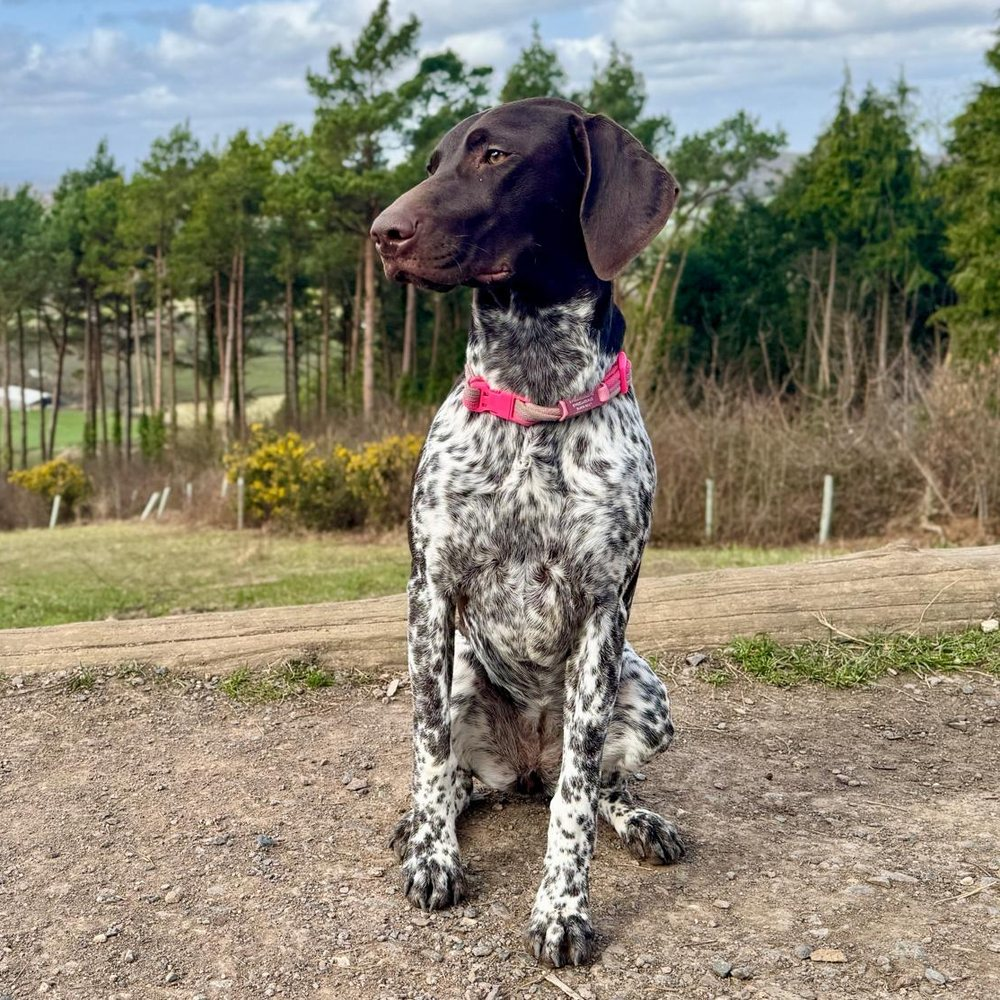
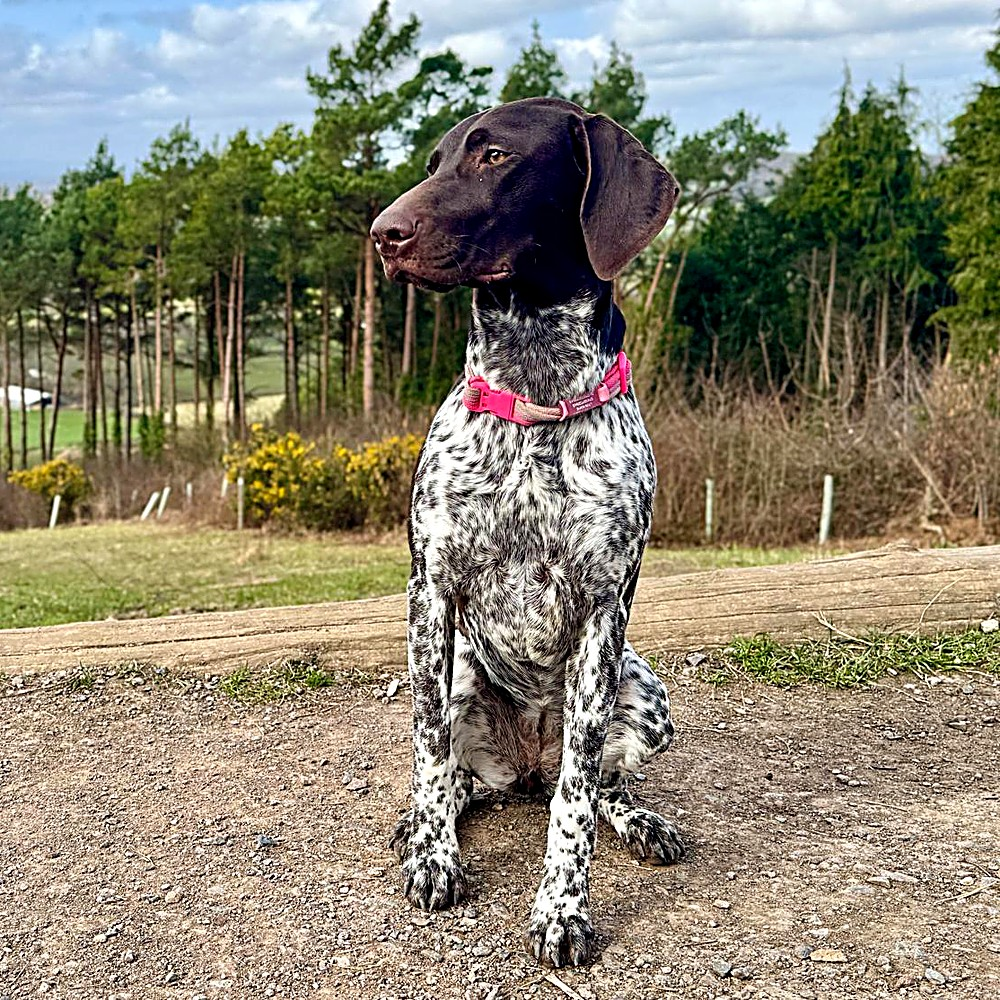
Gallery: Teddy + Khaleesi, clearer community photos, square tiles fix

diff --git a/index.html b/index.html
@@ -29,7 +29,7 @@
 <link rel="icon" href="/assets/img/favicon.png" type="image/png" sizes="512x512">
 <link rel="apple-touch-icon" href="/assets/img/apple-touch-icon.png">
 <link rel="preload" as="image" href="/assets/img/photos/hero.jpg?v=95f3ed8e" fetchpriority="high">
-<link rel="stylesheet" href="/assets/css/site.css?v=ec15ec20">
+<link rel="stylesheet" href="/assets/css/site.css?v=2c4a648b">
 <script type="application/ld+json">{"@context":"https://schema.org","@graph":[{"@type":"Organization","@id":"https://dalmatiannation.co.uk/#organization","name":"Dalmatian Nation","url":"https://dalmatiannation.co.uk/","logo":"https://dalmatiannation.co.uk/assets/img/logo.png","image":"https://dalmatiannation.co.uk/assets/img/og.jpg","description":"Purine-controlled complete dog food designed for Dalmatians, made in the UK.","contactPoint":{"@type":"ContactPoint","contactType":"customer service","url":"https://dalmatiannation.co.uk/contact","availableLanguage":"en"},"address":{"@type":"PostalAddress","addressLocality":"Bristol","addressRegion":"England","addressCountry":"GB"},"areaServed":"GB","knowsAbout":["Dalmatian dog food","purine-controlled dog food","low purine diet for dogs","HUA Dalmatians","urate stones in dogs"],"foundingDate":"2026","sameAs":["https://www.instagram.com/dalmatiannationltd/","https://www.facebook.com/people/Dalmatian-Nation/61595199105336/","https://www.tiktok.com/@dalmatiannationltd"]},{"@type":"WebSite","@id":"https://dalmatiannation.co.uk/#website","name":"Dalmatian Nation","url":"https://dalmatiannation.co.uk/","publisher":{"@id":"https://dalmatiannation.co.uk/#organization"},"inLanguage":"en-GB"},{"@type":"WebPage","name":"Dalmatian Nation — purine-controlled complete dog food for Dalmatians, UK","description":"Purine-controlled complete dog food designed for Dalmatians and dogs with urinary issues (HUA), made in the UK by two Dalmatian parents. Honest ingredients, no silent recipe changes. Take the survey for a discount on your first order.","url":"https://dalmatiannation.co.uk/","isPartOf":{"@id":"https://dalmatiannation.co.uk/#website"},"about":{"@id":"https://dalmatiannation.co.uk/#organization"},"primaryImageOfPage":"https://dalmatiannation.co.uk/assets/img/og.jpg","inLanguage":"en-GB"},{"@type":"FAQPage","mainEntity":[{"@type":"Question","name":"What does \"purine-controlled\" dog food mean?","acceptedAnswer":{"@type":"Answer","text":"Purines are natural compounds found in lots of foods — especially organ meats like liver and kidney, some oily fish, game and yeast extracts. A purine-controlled complete food keeps the overall purine level low by building the recipe around lower-purine proteins, while still giving a dog everything a complete diet needs."}},{"@type":"Question","name":"Why do Dalmatians need a lower-purine diet?","acceptedAnswer":{"@type":"Answer","text":"Dalmatians can carry a gene that changes how they process purines. Instead of breaking them down fully, these dogs pass more uric acid, which can form urate crystals and stones in the bladder. Keeping purines in the diet low is one of the main ways owners manage that risk day to day — alongside plenty of water and advice from their vet."}},{"@type":"Question","name":"What are HUA and LUA Dalmatians?","acceptedAnswer":{"@type":"Answer","text":"HUA means high uric acid — the common Dalmatian type, and the one a purine-controlled diet is designed for. LUA means low uric acid, which comes from a specific breeding programme and is much rarer. A simple DNA test tells you which your dog is. Either way, a purine-controlled complete food is a safe, sensible everyday choice."}},{"@type":"Question","name":"Which foods are high in purines for dogs?","acceptedAnswer":{"@type":"Answer","text":"The usual suspects are liver, kidney, heart and other offal, sardines, anchovies, mackerel and other oily fish, game, gravy made from meat extracts, and yeast-based extras. Lower-purine proteins include eggs, many dairy products and, in moderation, white meats. Lots of ordinary dog foods lean heavily on offal and fish, which is exactly why we started."}},{"@type":"Question","name":"Is Dalmatian Nation food only for Dalmatians?","acceptedAnswer":{"@type":"Answer","text":"No. It is designed around Dalmatians and other dogs with urinary issues, but it is a complete food that any dog can eat — \"designed for Dalmatians, tasty for all breeds\"."}},{"@type":"Question","name":"When can I buy it, and how does the launch discount work?","acceptedAnswer":{"@type":"Answer","text":"The food is in development and testing right now. Fill in our short survey and everyone who completes it gets a discount when they place their first order once we launch — and the first 100 also get a free snack ball for their pooch with that order. We email you your LEGACY number, which is how we match the offer to you."}}]}]}</script>
 </head>
 <body class="">

diff --git a/gallery.html b/gallery.html
@@ -28,7 +28,7 @@
 <meta name="dn-ga" content="G-V9R9HJWNVW">
 <link rel="icon" href="/assets/img/favicon.png" type="image/png" sizes="512x512">
 <link rel="apple-touch-icon" href="/assets/img/apple-touch-icon.png">
-<link rel="stylesheet" href="/assets/css/site.css?v=ec15ec20">
+<link rel="stylesheet" href="/assets/css/site.css?v=2c4a648b">
 <script type="application/ld+json">{"@context":"https://schema.org","@graph":[{"@type":"Organization","@id":"https://dalmatiannation.co.uk/#organization","name":"Dalmatian Nation","url":"https://dalmatiannation.co.uk/","logo":"https://dalmatiannation.co.uk/assets/img/logo.png","image":"https://dalmatiannation.co.uk/assets/img/og.jpg","description":"Purine-controlled complete dog food designed for Dalmatians, made in the UK.","contactPoint":{"@type":"ContactPoint","contactType":"customer service","url":"https://dalmatiannation.co.uk/contact","availableLanguage":"en"},"address":{"@type":"PostalAddress","addressLocality":"Bristol","addressRegion":"England","addressCountry":"GB"},"areaServed":"GB","knowsAbout":["Dalmatian dog food","purine-controlled dog food","low purine diet for dogs","HUA Dalmatians","urate stones in dogs"],"foundingDate":"2026","sameAs":["https://www.instagram.com/dalmatiannationltd/","https://www.facebook.com/people/Dalmatian-Nation/61595199105336/","https://www.tiktok.com/@dalmatiannationltd"]},{"@type":"WebSite","@id":"https://dalmatiannation.co.uk/#website","name":"Dalmatian Nation","url":"https://dalmatiannation.co.uk/","publisher":{"@id":"https://dalmatiannation.co.uk/#organization"},"inLanguage":"en-GB"},{"@type":"CollectionPage","name":"Gallery — Pandora, Arlo \u0026 the Dalmatian community · Dalmatian Nation","description":"Photos from Dalmatian Nation — our spotty pooches Pandora and Arlo, behind the scenes of making purine-controlled dog food, and the Pawesome Dalmatian Nation community gallery of your dogs.","url":"https://dalmatiannation.co.uk/gallery","isPartOf":{"@id":"https://dalmatiannation.co.uk/#website"},"about":{"@id":"https://dalmatiannation.co.uk/#organization"},"primaryImageOfPage":"https://dalmatiannation.co.uk/assets/img/og.jpg","inLanguage":"en-GB"},{"@type":"BreadcrumbList","itemListElement":[{"@type":"ListItem","position":1,"name":"Home","item":"https://dalmatiannation.co.uk/"},{"@type":"ListItem","position":2,"name":"Gallery","item":"https://dalmatiannation.co.uk/gallery"}]}]}</script>
 </head>
 <body class="">
@@ -78,12 +78,18 @@
     <div class="gallery-col" id="community">
       <h2 class="gallery-col-title community-title">The Pawesome Dalmatian Nation Community Gallery</h2>
                   <div class="gallery">
-              <a class="gallery-item" href="/assets/img/community/01-isobel.jpg?v=552bd919" target="_blank" rel="noopener">
-          <img src="/assets/img/community/01-isobel.jpg?v=552bd919" alt="Isobel" loading="lazy" width="400" height="400">
+              <a class="gallery-item" href="/assets/img/community/01-isobel.jpg?v=43b2093b" target="_blank" rel="noopener">
+          <img src="/assets/img/community/01-isobel.jpg?v=43b2093b" alt="Isobel" loading="lazy" width="400" height="400">
           <span class="gallery-name">Isobel</span>        </a>
-              <a class="gallery-item" href="/assets/img/community/02-mel.jpg?v=d0ad1e42" target="_blank" rel="noopener">
-          <img src="/assets/img/community/02-mel.jpg?v=d0ad1e42" alt="Mel" loading="lazy" width="400" height="400">
+              <a class="gallery-item" href="/assets/img/community/02-mel.jpg?v=43b2093b" target="_blank" rel="noopener">
+          <img src="/assets/img/community/02-mel.jpg?v=43b2093b" alt="Mel" loading="lazy" width="400" height="400">
           <span class="gallery-name">Mel</span>        </a>
+              <a class="gallery-item" href="/assets/img/community/03-teddy.jpg?v=3b4a658d" target="_blank" rel="noopener">
+          <img src="/assets/img/community/03-teddy.jpg?v=3b4a658d" alt="Teddy" loading="lazy" width="400" height="400">
+          <span class="gallery-name">Teddy</span>        </a>
+              <a class="gallery-item" href="/assets/img/community/04-khaleesi.jpg?v=0caf6cdb" target="_blank" rel="noopener">
+          <img src="/assets/img/community/04-khaleesi.jpg?v=0caf6cdb" alt="Khaleesi" loading="lazy" width="400" height="400">
+          <span class="gallery-name">Khaleesi</span>        </a>
           </div>
                 <div class="callout">
         <p><strong>Want your pooch in the gallery?</strong> If you'd like your own pooch to feature, send a photo to <span class="email-protect" data-u="olleh" data-d="ku.oc.noitannaitamlad">hello [at] dalmatiannation [dot] co [dot] uk</span> (bonus points if it features our logo or products!). Tell us your pooch's name — and by sending it, you're happy for us to share it here.</p>

diff --git a/dalmatian-dog-food.html b/dalmatian-dog-food.html
@@ -28,7 +28,7 @@
 <meta name="dn-ga" content="G-V9R9HJWNVW">
 <link rel="icon" href="/assets/img/favicon.png" type="image/png" sizes="512x512">
 <link rel="apple-touch-icon" href="/assets/img/apple-touch-icon.png">
-<link rel="stylesheet" href="/assets/css/site.css?v=ec15ec20">
+<link rel="stylesheet" href="/assets/css/site.css?v=2c4a648b">
 <script type="application/ld+json">{"@context":"https://schema.org","@graph":[{"@type":"Organization","@id":"https://dalmatiannation.co.uk/#organization","name":"Dalmatian Nation","url":"https://dalmatiannation.co.uk/","logo":"https://dalmatiannation.co.uk/assets/img/logo.png","image":"https://dalmatiannation.co.uk/assets/img/og.jpg","description":"Purine-controlled complete dog food designed for Dalmatians, made in the UK.","contactPoint":{"@type":"ContactPoint","contactType":"customer service","url":"https://dalmatiannation.co.uk/contact","availableLanguage":"en"},"address":{"@type":"PostalAddress","addressLocality":"Bristol","addressRegion":"England","addressCountry":"GB"},"areaServed":"GB","knowsAbout":["Dalmatian dog food","purine-controlled dog food","low purine diet for dogs","HUA Dalmatians","urate stones in dogs"],"foundingDate":"2026","sameAs":["https://www.instagram.com/dalmatiannationltd/","https://www.facebook.com/people/Dalmatian-Nation/61595199105336/","https://www.tiktok.com/@dalmatiannationltd"]},{"@type":"WebSite","@id":"https://dalmatiannation.co.uk/#website","name":"Dalmatian Nation","url":"https://dalmatiannation.co.uk/","publisher":{"@id":"https://dalmatiannation.co.uk/#organization"},"inLanguage":"en-GB"},{"@type":"WebPage","name":"Dalmatian dog food: what to feed a Dalmatian (UK guide) · Dalmatian Nation","description":"The best food for Dalmatians is purine-controlled. What that means, which ingredients to avoid, HUA vs LUA, raw vs dry, and how two Dalmatian parents in Bristol are making a complete Dalmatian food in the UK.","url":"https://dalmatiannation.co.uk/dalmatian-dog-food","isPartOf":{"@id":"https://dalmatiannation.co.uk/#website"},"about":{"@id":"https://dalmatiannation.co.uk/#organization"},"primaryImageOfPage":"https://dalmatiannation.co.uk/assets/img/og.jpg","inLanguage":"en-GB"},{"@type":"BreadcrumbList","itemListElement":[{"@type":"ListItem","position":1,"name":"Home","item":"https://dalmatiannation.co.uk/"},{"@type":"ListItem","position":2,"name":"Dalmatian dog food","item":"https://dalmatiannation.co.uk/dalmatian-dog-food"}]},{"@type":"FAQPage","mainEntity":[{"@type":"Question","name":"What is the best food for a Dalmatian?","acceptedAnswer":{"@type":"Answer","text":"A complete food that is purine-controlled — built on lower-purine proteins rather than offal and oily fish — with a clear ingredients list and a maker who tells you when the recipe changes. Wet or dry both work; what matters most is the purine level, the water your dog drinks, and consistency."}},{"@type":"Question","name":"Can Dalmatians eat normal dog food?","acceptedAnswer":{"@type":"Answer","text":"Many do, but a lot of ordinary dog foods lean on liver, kidney, sardines and other high-purine ingredients that a HUA Dalmatian struggles with. Reading the full ingredients list is essential — \"Dalmatian-friendly\" on the front of a bag is not a guarantee of what is inside."}},{"@type":"Question","name":"Is raw food good for Dalmatians?","acceptedAnswer":{"@type":"Answer","text":"It can be, if the recipe avoids offal and oily fish and is properly balanced. Plenty of raw mixes are organ-heavy, which is the opposite of what a Dalmatian needs. The same purine rules apply whether the food is raw, cold-pressed or kibble."}},{"@type":"Question","name":"How much water should a Dalmatian drink?","acceptedAnswer":{"@type":"Answer","text":"As much as possible. Dilute urine gives uric acid less chance to form crystals, so wet food, a splash of water on dry food, and fresh water everywhere all help. Frequent wees are a good sign, not a bad one."}}]}]}</script>
 </head>
 <body class="">

diff --git a/purine-controlled-dog-food.html b/purine-controlled-dog-food.html
@@ -28,7 +28,7 @@
 <meta name="dn-ga" content="G-V9R9HJWNVW">
 <link rel="icon" href="/assets/img/favicon.png" type="image/png" sizes="512x512">
 <link rel="apple-touch-icon" href="/assets/img/apple-touch-icon.png">
-<link rel="stylesheet" href="/assets/css/site.css?v=ec15ec20">
+<link rel="stylesheet" href="/assets/css/site.css?v=2c4a648b">
 <script type="application/ld+json">{"@context":"https://schema.org","@graph":[{"@type":"Organization","@id":"https://dalmatiannation.co.uk/#organization","name":"Dalmatian Nation","url":"https://dalmatiannation.co.uk/","logo":"https://dalmatiannation.co.uk/assets/img/logo.png","image":"https://dalmatiannation.co.uk/assets/img/og.jpg","description":"Purine-controlled complete dog food designed for Dalmatians, made in the UK.","contactPoint":{"@type":"ContactPoint","contactType":"customer service","url":"https://dalmatiannation.co.uk/contact","availableLanguage":"en"},"address":{"@type":"PostalAddress","addressLocality":"Bristol","addressRegion":"England","addressCountry":"GB"},"areaServed":"GB","knowsAbout":["Dalmatian dog food","purine-controlled dog food","low purine diet for dogs","HUA Dalmatians","urate stones in dogs"],"foundingDate":"2026","sameAs":["https://www.instagram.com/dalmatiannationltd/","https://www.facebook.com/people/Dalmatian-Nation/61595199105336/","https://www.tiktok.com/@dalmatiannationltd"]},{"@type":"WebSite","@id":"https://dalmatiannation.co.uk/#website","name":"Dalmatian Nation","url":"https://dalmatiannation.co.uk/","publisher":{"@id":"https://dalmatiannation.co.uk/#organization"},"inLanguage":"en-GB"},{"@type":"WebPage","name":"Purine-controlled (low purine) dog food explained — UK · Dalmatian Nation","description":"What purines are, why they cause urate crystals and stones in some dogs, which dog food ingredients are high in purines, and what a genuinely low purine, purine-controlled complete dog food looks like. Made in the UK.","url":"https://dalmatiannation.co.uk/purine-controlled-dog-food","isPartOf":{"@id":"https://dalmatiannation.co.uk/#website"},"about":{"@id":"https://dalmatiannation.co.uk/#organization"},"primaryImageOfPage":"https://dalmatiannation.co.uk/assets/img/og.jpg","inLanguage":"en-GB"},{"@type":"BreadcrumbList","itemListElement":[{"@type":"ListItem","position":1,"name":"Home","item":"https://dalmatiannation.co.uk/"},{"@type":"ListItem","position":2,"name":"Purine-controlled dog food","item":"https://dalmatiannation.co.uk/purine-controlled-dog-food"}]},{"@type":"FAQPage","mainEntity":[{"@type":"Question","name":"What is a low purine dog food?","acceptedAnswer":{"@type":"Answer","text":"A complete dog food whose recipe keeps purines low by using lower-purine proteins (eggs, dairy, white meats in moderation) instead of offal, game and oily fish. \"Purine-controlled\" means the same thing — we prefer it because no real food is purine-free."}},{"@type":"Question","name":"Which dogs need a purine-controlled diet?","acceptedAnswer":{"@type":"Answer","text":"Dalmatians with the HUA gene above all, plus some English Bulldogs, Black Russian Terriers and any dog that has had urate crystals or stones. It is also a sensible everyday diet for any dog in a Dalmatian household."}},{"@type":"Question","name":"Is low purine the same as low protein?","acceptedAnswer":{"@type":"Answer","text":"No. Purines are in all proteins, but in very different amounts. A purine-controlled food can be perfectly normal in protein — it just chooses which proteins carefully."}},{"@type":"Question","name":"Do treats and chews count?","acceptedAnswer":{"@type":"Answer","text":"Yes, and they are the usual culprit. Dried liver, fish skins, pizzles and many \"natural\" chews are offal- or fish-based and very high in purines. Treats need the same rules as dinner."}}]}]}</script>
 </head>
 <body class="">

diff --git a/about-us.html b/about-us.html
@@ -28,7 +28,7 @@
 <meta name="dn-ga" content="G-V9R9HJWNVW">
 <link rel="icon" href="/assets/img/favicon.png" type="image/png" sizes="512x512">
 <link rel="apple-touch-icon" href="/assets/img/apple-touch-icon.png">
-<link rel="stylesheet" href="/assets/css/site.css?v=ec15ec20">
+<link rel="stylesheet" href="/assets/css/site.css?v=2c4a648b">
 <script type="application/ld+json">{"@context":"https://schema.org","@graph":[{"@type":"Organization","@id":"https://dalmatiannation.co.uk/#organization","name":"Dalmatian Nation","url":"https://dalmatiannation.co.uk/","logo":"https://dalmatiannation.co.uk/assets/img/logo.png","image":"https://dalmatiannation.co.uk/assets/img/og.jpg","description":"Purine-controlled complete dog food designed for Dalmatians, made in the UK.","contactPoint":{"@type":"ContactPoint","contactType":"customer service","url":"https://dalmatiannation.co.uk/contact","availableLanguage":"en"},"address":{"@type":"PostalAddress","addressLocality":"Bristol","addressRegion":"England","addressCountry":"GB"},"areaServed":"GB","knowsAbout":["Dalmatian dog food","purine-controlled dog food","low purine diet for dogs","HUA Dalmatians","urate stones in dogs"],"foundingDate":"2026","sameAs":["https://www.instagram.com/dalmatiannationltd/","https://www.facebook.com/people/Dalmatian-Nation/61595199105336/","https://www.tiktok.com/@dalmatiannationltd"]},{"@type":"WebSite","@id":"https://dalmatiannation.co.uk/#website","name":"Dalmatian Nation","url":"https://dalmatiannation.co.uk/","publisher":{"@id":"https://dalmatiannation.co.uk/#organization"},"inLanguage":"en-GB"},{"@type":"AboutPage","name":"About Us — two Dalmatian parents, purine-controlled food · Dalmatian Nation","description":"Why we started Dalmatian Nation after a \"Dalmatian-friendly\" food changed its recipe without telling anyone, what we're building (purine-controlled complete food, made in the UK), and the two spotty pooches behind it all — Pandora and Arlo.","url":"https://dalmatiannation.co.uk/about-us","isPartOf":{"@id":"https://dalmatiannation.co.uk/#website"},"about":{"@id":"https://dalmatiannation.co.uk/#organization"},"primaryImageOfPage":"https://dalmatiannation.co.uk/assets/img/og.jpg","inLanguage":"en-GB"},{"@type":"BreadcrumbList","itemListElement":[{"@type":"ListItem","position":1,"name":"Home","item":"https://dalmatiannation.co.uk/"},{"@type":"ListItem","position":2,"name":"About us","item":"https://dalmatiannation.co.uk/about-us"}]}]}</script>
 </head>
 <body class="page-about-us">

diff --git a/blog.html b/blog.html
@@ -28,7 +28,7 @@
 <meta name="dn-ga" content="G-V9R9HJWNVW">
 <link rel="icon" href="/assets/img/favicon.png" type="image/png" sizes="512x512">
 <link rel="apple-touch-icon" href="/assets/img/apple-touch-icon.png">
-<link rel="stylesheet" href="/assets/css/site.css?v=ec15ec20">
+<link rel="stylesheet" href="/assets/css/site.css?v=2c4a648b">
 <script type="application/ld+json">{"@context":"https://schema.org","@graph":[{"@type":"Organization","@id":"https://dalmatiannation.co.uk/#organization","name":"Dalmatian Nation","url":"https://dalmatiannation.co.uk/","logo":"https://dalmatiannation.co.uk/assets/img/logo.png","image":"https://dalmatiannation.co.uk/assets/img/og.jpg","description":"Purine-controlled complete dog food designed for Dalmatians, made in the UK.","contactPoint":{"@type":"ContactPoint","contactType":"customer service","url":"https://dalmatiannation.co.uk/contact","availableLanguage":"en"},"address":{"@type":"PostalAddress","addressLocality":"Bristol","addressRegion":"England","addressCountry":"GB"},"areaServed":"GB","knowsAbout":["Dalmatian dog food","purine-controlled dog food","low purine diet for dogs","HUA Dalmatians","urate stones in dogs"],"foundingDate":"2026","sameAs":["https://www.instagram.com/dalmatiannationltd/","https://www.facebook.com/people/Dalmatian-Nation/61595199105336/","https://www.tiktok.com/@dalmatiannationltd"]},{"@type":"WebSite","@id":"https://dalmatiannation.co.uk/#website","name":"Dalmatian Nation","url":"https://dalmatiannation.co.uk/","publisher":{"@id":"https://dalmatiannation.co.uk/#organization"},"inLanguage":"en-GB"},{"@type":"CollectionPage","name":"Dalmatian Blog \u0026 Advice — food, purines, training, deafness · Dalmatian Nation","description":"Honest, first-hand advice on all things Dalmatian from the two Dalmatian parents behind Dalmatian Nation — purine-controlled feeding, HUA and LUA, training, deafness and living with spotty dogs.","url":"https://dalmatiannation.co.uk/blog","isPartOf":{"@id":"https://dalmatiannation.co.uk/#website"},"about":{"@id":"https://dalmatiannation.co.uk/#organization"},"primaryImageOfPage":"https://dalmatiannation.co.uk/assets/img/og.jpg","inLanguage":"en-GB"},{"@type":"BreadcrumbList","itemListElement":[{"@type":"ListItem","position":1,"name":"Home","item":"https://dalmatiannation.co.uk/"},{"@type":"ListItem","position":2,"name":"Blog \u0026 Advice","item":"https://dalmatiannation.co.uk/blog"}]}]}</script>
 </head>
 <body class="">

diff --git a/survey.html b/survey.html
@@ -28,7 +28,7 @@
 <meta name="dn-ga" content="G-V9R9HJWNVW">
 <link rel="icon" href="/assets/img/favicon.png" type="image/png" sizes="512x512">
 <link rel="apple-touch-icon" href="/assets/img/apple-touch-icon.png">
-<link rel="stylesheet" href="/assets/css/site.css?v=ec15ec20">
+<link rel="stylesheet" href="/assets/css/site.css?v=2c4a648b">
 <script type="application/ld+json">{"@context":"https://schema.org","@graph":[{"@type":"Organization","@id":"https://dalmatiannation.co.uk/#organization","name":"Dalmatian Nation","url":"https://dalmatiannation.co.uk/","logo":"https://dalmatiannation.co.uk/assets/img/logo.png","image":"https://dalmatiannation.co.uk/assets/img/og.jpg","description":"Purine-controlled complete dog food designed for Dalmatians, made in the UK.","contactPoint":{"@type":"ContactPoint","contactType":"customer service","url":"https://dalmatiannation.co.uk/contact","availableLanguage":"en"},"address":{"@type":"PostalAddress","addressLocality":"Bristol","addressRegion":"England","addressCountry":"GB"},"areaServed":"GB","knowsAbout":["Dalmatian dog food","purine-controlled dog food","low purine diet for dogs","HUA Dalmatians","urate stones in dogs"],"foundingDate":"2026","sameAs":["https://www.instagram.com/dalmatiannationltd/","https://www.facebook.com/people/Dalmatian-Nation/61595199105336/","https://www.tiktok.com/@dalmatiannationltd"]},{"@type":"WebSite","@id":"https://dalmatiannation.co.uk/#website","name":"Dalmatian Nation","url":"https://dalmatiannation.co.uk/","publisher":{"@id":"https://dalmatiannation.co.uk/#organization"},"inLanguage":"en-GB"},{"@type":"WebPage","name":"Dalmatian owner survey — a discount on your first order · Dalmatian Nation","description":"Tell us about your Dalmatian and what you feed. Eight questions, under a minute. Everyone who completes it gets a discount when they place their first order, and the first 100 also get a free snack ball with that order.","url":"https://dalmatiannation.co.uk/survey","isPartOf":{"@id":"https://dalmatiannation.co.uk/#website"},"about":{"@id":"https://dalmatiannation.co.uk/#organization"},"primaryImageOfPage":"https://dalmatiannation.co.uk/assets/img/og.jpg","inLanguage":"en-GB"},{"@type":"BreadcrumbList","itemListElement":[{"@type":"ListItem","position":1,"name":"Home","item":"https://dalmatiannation.co.uk/"},{"@type":"ListItem","position":2,"name":"Survey","item":"https://dalmatiannation.co.uk/survey"}]}]}</script>
 </head>
 <body class="">

diff --git a/shop.html b/shop.html
@@ -28,7 +28,7 @@
 <meta name="dn-ga" content="G-V9R9HJWNVW">
 <link rel="icon" href="/assets/img/favicon.png" type="image/png" sizes="512x512">
 <link rel="apple-touch-icon" href="/assets/img/apple-touch-icon.png">
-<link rel="stylesheet" href="/assets/css/site.css?v=ec15ec20">
+<link rel="stylesheet" href="/assets/css/site.css?v=2c4a648b">
 <script type="application/ld+json">{"@context":"https://schema.org","@graph":[{"@type":"Organization","@id":"https://dalmatiannation.co.uk/#organization","name":"Dalmatian Nation","url":"https://dalmatiannation.co.uk/","logo":"https://dalmatiannation.co.uk/assets/img/logo.png","image":"https://dalmatiannation.co.uk/assets/img/og.jpg","description":"Purine-controlled complete dog food designed for Dalmatians, made in the UK.","contactPoint":{"@type":"ContactPoint","contactType":"customer service","url":"https://dalmatiannation.co.uk/contact","availableLanguage":"en"},"address":{"@type":"PostalAddress","addressLocality":"Bristol","addressRegion":"England","addressCountry":"GB"},"areaServed":"GB","knowsAbout":["Dalmatian dog food","purine-controlled dog food","low purine diet for dogs","HUA Dalmatians","urate stones in dogs"],"foundingDate":"2026","sameAs":["https://www.instagram.com/dalmatiannationltd/","https://www.facebook.com/people/Dalmatian-Nation/61595199105336/","https://www.tiktok.com/@dalmatiannationltd"]},{"@type":"WebSite","@id":"https://dalmatiannation.co.uk/#website","name":"Dalmatian Nation","url":"https://dalmatiannation.co.uk/","publisher":{"@id":"https://dalmatiannation.co.uk/#organization"},"inLanguage":"en-GB"},{"@type":"CollectionPage","name":"Shop — purine-controlled Dalmatian dog food, coming soon · Dalmatian Nation","description":"Purine-controlled complete dog food for Dalmatians and other dogs with urinary issues, designed, made and tested in the UK. In development now — take the survey for a discount on your first order when we launch.","url":"https://dalmatiannation.co.uk/shop","isPartOf":{"@id":"https://dalmatiannation.co.uk/#website"},"about":{"@id":"https://dalmatiannation.co.uk/#organization"},"primaryImageOfPage":"https://dalmatiannation.co.uk/assets/img/og.jpg","inLanguage":"en-GB"},{"@type":"BreadcrumbList","itemListElement":[{"@type":"ListItem","position":1,"name":"Home","item":"https://dalmatiannation.co.uk/"},{"@type":"ListItem","position":2,"name":"Shop","item":"https://dalmatiannation.co.uk/shop"}]}]}</script>
 </head>
 <body class="">

diff --git a/contact.html b/contact.html
@@ -28,7 +28,7 @@
 <meta name="dn-ga" content="G-V9R9HJWNVW">
 <link rel="icon" href="/assets/img/favicon.png" type="image/png" sizes="512x512">
 <link rel="apple-touch-icon" href="/assets/img/apple-touch-icon.png">
-<link rel="stylesheet" href="/assets/css/site.css?v=ec15ec20">
+<link rel="stylesheet" href="/assets/css/site.css?v=2c4a648b">
 <script type="application/ld+json">{"@context":"https://schema.org","@graph":[{"@type":"Organization","@id":"https://dalmatiannation.co.uk/#organization","name":"Dalmatian Nation","url":"https://dalmatiannation.co.uk/","logo":"https://dalmatiannation.co.uk/assets/img/logo.png","image":"https://dalmatiannation.co.uk/assets/img/og.jpg","description":"Purine-controlled complete dog food designed for Dalmatians, made in the UK.","contactPoint":{"@type":"ContactPoint","contactType":"customer service","url":"https://dalmatiannation.co.uk/contact","availableLanguage":"en"},"address":{"@type":"PostalAddress","addressLocality":"Bristol","addressRegion":"England","addressCountry":"GB"},"areaServed":"GB","knowsAbout":["Dalmatian dog food","purine-controlled dog food","low purine diet for dogs","HUA Dalmatians","urate stones in dogs"],"foundingDate":"2026","sameAs":["https://www.instagram.com/dalmatiannationltd/","https://www.facebook.com/people/Dalmatian-Nation/61595199105336/","https://www.tiktok.com/@dalmatiannationltd"]},{"@type":"WebSite","@id":"https://dalmatiannation.co.uk/#website","name":"Dalmatian Nation","url":"https://dalmatiannation.co.uk/","publisher":{"@id":"https://dalmatiannation.co.uk/#organization"},"inLanguage":"en-GB"},{"@type":"ContactPage","name":"Contact Dalmatian Nation — purine-controlled Dalmatian dog food","description":"Get in touch with Dalmatian Nation — questions about purine-controlled food, feeding a Dalmatian, our products, or just Dalmatian chat. Two Dalmatian parents in the UK; we read everything.","url":"https://dalmatiannation.co.uk/contact","isPartOf":{"@id":"https://dalmatiannation.co.uk/#website"},"about":{"@id":"https://dalmatiannation.co.uk/#organization"},"primaryImageOfPage":"https://dalmatiannation.co.uk/assets/img/og.jpg","inLanguage":"en-GB"},{"@type":"BreadcrumbList","itemListElement":[{"@type":"ListItem","position":1,"name":"Home","item":"https://dalmatiannation.co.uk/"},{"@type":"ListItem","position":2,"name":"Contact","item":"https://dalmatiannation.co.uk/contact"}]}]}</script>
 </head>
 <body class="">

diff --git a/privacy.html b/privacy.html
@@ -28,7 +28,7 @@
 <meta name="dn-ga" content="G-V9R9HJWNVW">
 <link rel="icon" href="/assets/img/favicon.png" type="image/png" sizes="512x512">
 <link rel="apple-touch-icon" href="/assets/img/apple-touch-icon.png">
-<link rel="stylesheet" href="/assets/css/site.css?v=ec15ec20">
+<link rel="stylesheet" href="/assets/css/site.css?v=2c4a648b">
 <script type="application/ld+json">{"@context":"https://schema.org","@graph":[{"@type":"Organization","@id":"https://dalmatiannation.co.uk/#organization","name":"Dalmatian Nation","url":"https://dalmatiannation.co.uk/","logo":"https://dalmatiannation.co.uk/assets/img/logo.png","image":"https://dalmatiannation.co.uk/assets/img/og.jpg","description":"Purine-controlled complete dog food designed for Dalmatians, made in the UK.","contactPoint":{"@type":"ContactPoint","contactType":"customer service","url":"https://dalmatiannation.co.uk/contact","availableLanguage":"en"},"address":{"@type":"PostalAddress","addressLocality":"Bristol","addressRegion":"England","addressCountry":"GB"},"areaServed":"GB","knowsAbout":["Dalmatian dog food","purine-controlled dog food","low purine diet for dogs","HUA Dalmatians","urate stones in dogs"],"foundingDate":"2026","sameAs":["https://www.instagram.com/dalmatiannationltd/","https://www.facebook.com/people/Dalmatian-Nation/61595199105336/","https://www.tiktok.com/@dalmatiannationltd"]},{"@type":"WebSite","@id":"https://dalmatiannation.co.uk/#website","name":"Dalmatian Nation","url":"https://dalmatiannation.co.uk/","publisher":{"@id":"https://dalmatiannation.co.uk/#organization"},"inLanguage":"en-GB"},{"@type":"WebPage","name":"Privacy \u0026 your data · Dalmatian Nation","description":"How Dalmatian Nation collects, uses and protects your personal data.","url":"https://dalmatiannation.co.uk/privacy","isPartOf":{"@id":"https://dalmatiannation.co.uk/#website"},"about":{"@id":"https://dalmatiannation.co.uk/#organization"},"primaryImageOfPage":"https://dalmatiannation.co.uk/assets/img/og.jpg","inLanguage":"en-GB"},{"@type":"BreadcrumbList","itemListElement":[{"@type":"ListItem","position":1,"name":"Home","item":"https://dalmatiannation.co.uk/"},{"@type":"ListItem","position":2,"name":"Privacy \u0026 your data","item":"https://dalmatiannation.co.uk/privacy"}]}]}</script>
 </head>
 <body class="">

diff --git a/thanks-survey.html b/thanks-survey.html
@@ -28,7 +28,7 @@
 <meta name="dn-ga" content="G-V9R9HJWNVW">
 <link rel="icon" href="/assets/img/favicon.png" type="image/png" sizes="512x512">
 <link rel="apple-touch-icon" href="/assets/img/apple-touch-icon.png">
-<link rel="stylesheet" href="/assets/css/site.css?v=ec15ec20">
+<link rel="stylesheet" href="/assets/css/site.css?v=2c4a648b">
 <script type="application/ld+json">{"@context":"https://schema.org","@graph":[{"@type":"Organization","@id":"https://dalmatiannation.co.uk/#organization","name":"Dalmatian Nation","url":"https://dalmatiannation.co.uk/","logo":"https://dalmatiannation.co.uk/assets/img/logo.png","image":"https://dalmatiannation.co.uk/assets/img/og.jpg","description":"Purine-controlled complete dog food designed for Dalmatians, made in the UK.","contactPoint":{"@type":"ContactPoint","contactType":"customer service","url":"https://dalmatiannation.co.uk/contact","availableLanguage":"en"},"address":{"@type":"PostalAddress","addressLocality":"Bristol","addressRegion":"England","addressCountry":"GB"},"areaServed":"GB","knowsAbout":["Dalmatian dog food","purine-controlled dog food","low purine diet for dogs","HUA Dalmatians","urate stones in dogs"],"foundingDate":"2026","sameAs":["https://www.instagram.com/dalmatiannationltd/","https://www.facebook.com/people/Dalmatian-Nation/61595199105336/","https://www.tiktok.com/@dalmatiannationltd"]},{"@type":"WebSite","@id":"https://dalmatiannation.co.uk/#website","name":"Dalmatian Nation","url":"https://dalmatiannation.co.uk/","publisher":{"@id":"https://dalmatiannation.co.uk/#organization"},"inLanguage":"en-GB"},{"@type":"WebPage","name":"Thank you · Dalmatian Nation","description":"Thanks for getting in touch with Dalmatian Nation.","url":"https://dalmatiannation.co.uk/thanks-survey","isPartOf":{"@id":"https://dalmatiannation.co.uk/#website"},"about":{"@id":"https://dalmatiannation.co.uk/#organization"},"primaryImageOfPage":"https://dalmatiannation.co.uk/assets/img/og.jpg","inLanguage":"en-GB"},{"@type":"BreadcrumbList","itemListElement":[{"@type":"ListItem","position":1,"name":"Home","item":"https://dalmatiannation.co.uk/"},{"@type":"ListItem","position":2,"name":"Thank you","item":"https://dalmatiannation.co.uk/thanks-survey"}]}]}</script>
 </head>
 <body class="">

diff --git a/thanks.html b/thanks.html
@@ -28,7 +28,7 @@
 <meta name="dn-ga" content="G-V9R9HJWNVW">
 <link rel="icon" href="/assets/img/favicon.png" type="image/png" sizes="512x512">
 <link rel="apple-touch-icon" href="/assets/img/apple-touch-icon.png">
-<link rel="stylesheet" href="/assets/css/site.css?v=ec15ec20">
+<link rel="stylesheet" href="/assets/css/site.css?v=2c4a648b">
 <script type="application/ld+json">{"@context":"https://schema.org","@graph":[{"@type":"Organization","@id":"https://dalmatiannation.co.uk/#organization","name":"Dalmatian Nation","url":"https://dalmatiannation.co.uk/","logo":"https://dalmatiannation.co.uk/assets/img/logo.png","image":"https://dalmatiannation.co.uk/assets/img/og.jpg","description":"Purine-controlled complete dog food designed for Dalmatians, made in the UK.","contactPoint":{"@type":"ContactPoint","contactType":"customer service","url":"https://dalmatiannation.co.uk/contact","availableLanguage":"en"},"address":{"@type":"PostalAddress","addressLocality":"Bristol","addressRegion":"England","addressCountry":"GB"},"areaServed":"GB","knowsAbout":["Dalmatian dog food","purine-controlled dog food","low purine diet for dogs","HUA Dalmatians","urate stones in dogs"],"foundingDate":"2026","sameAs":["https://www.instagram.com/dalmatiannationltd/","https://www.facebook.com/people/Dalmatian-Nation/61595199105336/","https://www.tiktok.com/@dalmatiannationltd"]},{"@type":"WebSite","@id":"https://dalmatiannation.co.uk/#website","name":"Dalmatian Nation","url":"https://dalmatiannation.co.uk/","publisher":{"@id":"https://dalmatiannation.co.uk/#organization"},"inLanguage":"en-GB"},{"@type":"WebPage","name":"Thank you · Dalmatian Nation","description":"Thanks for getting in touch with Dalmatian Nation.","url":"https://dalmatiannation.co.uk/thanks","isPartOf":{"@id":"https://dalmatiannation.co.uk/#website"},"about":{"@id":"https://dalmatiannation.co.uk/#organization"},"primaryImageOfPage":"https://dalmatiannation.co.uk/assets/img/og.jpg","inLanguage":"en-GB"},{"@type":"BreadcrumbList","itemListElement":[{"@type":"ListItem","position":1,"name":"Home","item":"https://dalmatiannation.co.uk/"},{"@type":"ListItem","position":2,"name":"Thank you","item":"https://dalmatiannation.co.uk/thanks"}]}]}</script>
 </head>
 <body class="">
